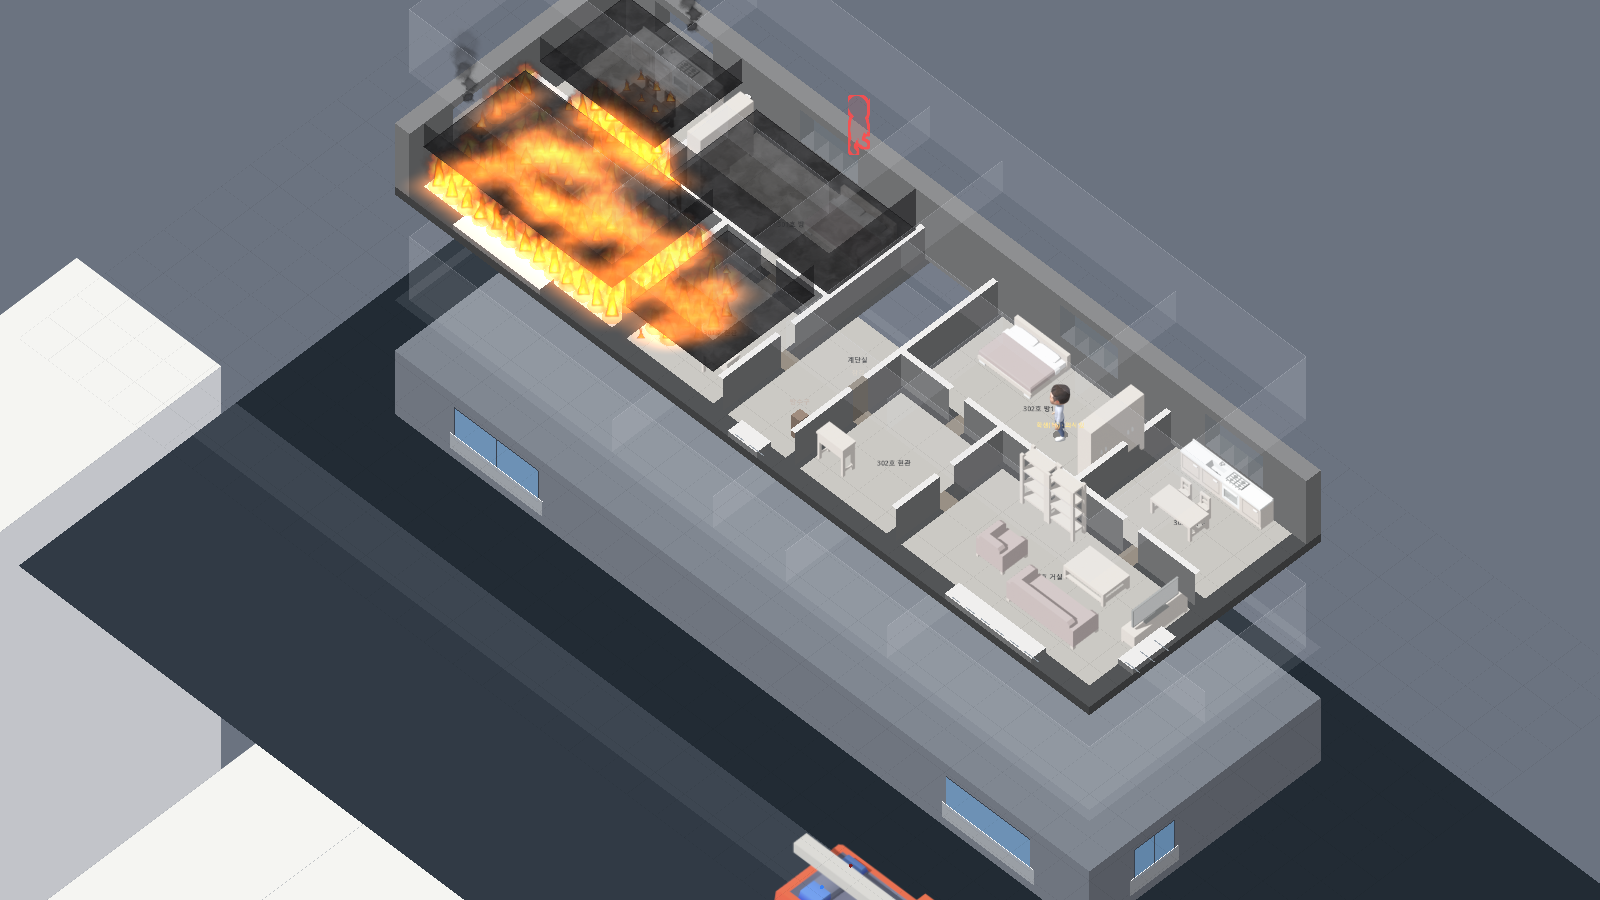
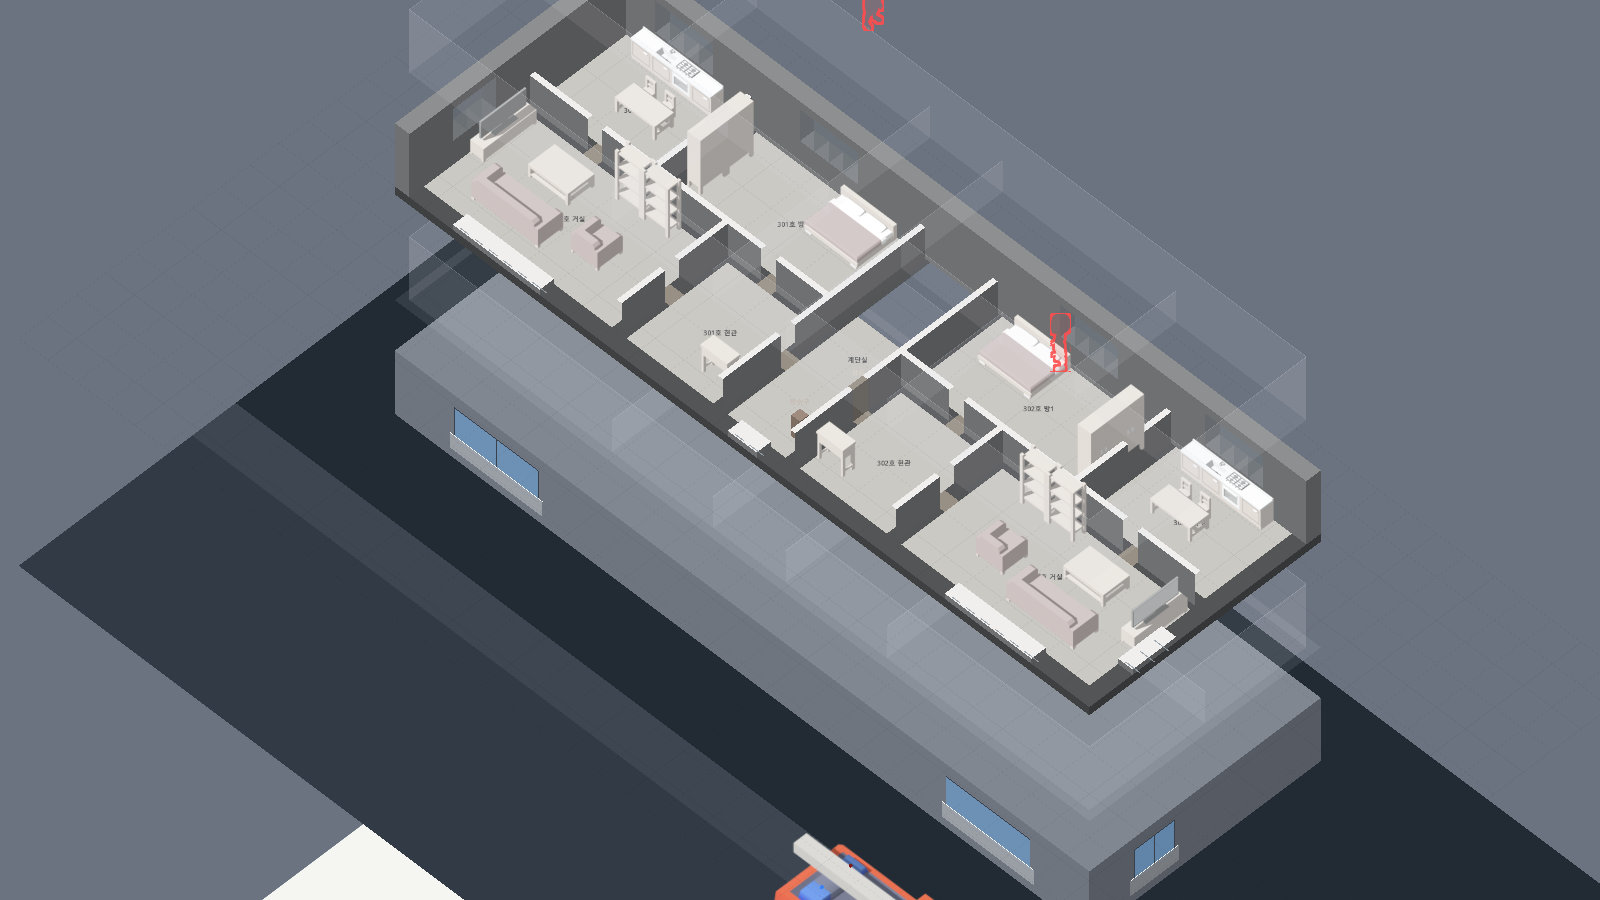
F01·F03: 층 위치 B(뒤로 0.3·위로 260px), 연기층을 Kenney 연기 덩어리 구름으로(윗면 옅게·앞면 진하게·높이 눈금)

diff --git a/docs/progress.md b/docs/progress.md
@@ -29,3 +29,4 @@
 | 2026-11-11 | P15-2 대체: 대원 3D 모델 직접 제작(firefighter_v2) | tools/blender/firefighter_v2.py(새 — 뼈대·방화복·반사띠·면체·공기호흡기·헬멧 모델과 7동작 자세), tools/blender/bake.py(bake_built_character)·bake_config.json(firefighter_v2), art/sprites/characters_firefighter_v2*(새), data/art.json(crew·commander → v2, 되돌리기 한 줄), data/credits.json, scripts/ui/building/floor_layer(이름표 높이), .gitignore(art_source/models) | TRELLIS·Mixamo 없이 Blender 스크립트로 만든 사람 비율 모델(단단한 조각+관절). 사진 같은 질감·손가락은 없음. Blender MCP 서버 설치(사용자 설정) — 다음 세션부터 Blender를 직접 조작해 다듬을 수 있음 |
 | 2026-11-11 | P4-5 진입구·층·계단 고르기 조작 | scripts/simulation/grid/stair_cores.gd(새)·pathfinder(밖으로 둘러 가는 길), scripts/units/unit_system(via·outdoor), scripts/command/command_system(진입구로 가기·층 목표·계단 묻기·동시 진입)·command_order(approach·floor·stair·entry_all)·move_command(via)·tactical_command, scripts/ui/selection_controller(안내 흐름·노란 표시·땅 우클릭=지휘관)·mission_ui(원형 메뉴 → 대상 목록)·card_ui(동시 진입)·building/floor_layer(층 테두리)·iso_view·world, data/command/radio_params(stair_answer_wait_s), tests(test_floor_flow 새, ui_smoke·ui_command_card 고침, _shot_guide·_shot_stairs 새), docs/test_guides/P4-5 | 전체 테스트는 사용자 지시 때. 계단 둘인 건물은 지하 노래방뿐. 사다리 창 진입구 없음 |
 | 2026-11-11 | 즉시 지시 (P10-3) | scripts/command/radio(instant_orders·send_ack)·organization(즉시·통솔범위 끄기)·command_system(set_order_mode·지연 이유 알림·진입 요청 즉시), scripts/simulation/sim_world(난이도별), scripts/evaluation/sim_event_log, data/command/radio_params(instant_char_scale), tests(test_instant_orders 새, ui_smoke 무전 확인) | 기획안 9-1 '교신 2~3초 뒤 움직임'은 악조건에만 남음 |
+| 2026-11-12 | F01 층 위치 B · 연기층 그림 1단계 | data/ui/view_params(stagger B, smoke_*), scripts/ui/building/view_params·floor_layer(_draw_smoke_cloud·_draw_smoke_gauge·_people_in)·fx_art(draw_puff_rect), scripts/simulation/crew_condition_system(eye_standing_m), tests(test_cutaway 값·눈높이, _shot_house 새) | 연기 2단계(쌓이는 움직임) 남음 |

diff --git a/docs/decisions.md b/docs/decisions.md
@@ -103,3 +103,5 @@
 | 2026-11-12 | F01 | 짝 층·앞벽 자리·실내 벽 두께 | 비켜 놓은 짝 층 25% + 층 이름표(지금 층 표시), 없앤 앞벽 자리는 바닥선 실선·꼭대기와 모서리 반투명 점선, 실내 벽·실내 문 두께 = 칸의 0.34(바깥벽의 1/3), 이음새 끝면 생략, 벽 칸 바닥은 보통 바닥색 | 사용자 결정 |
 | 2026-11-12 | F01 | 짝 층 흑백·모서리 기둥 | 짝 층 50% + 흑백(셰이더), 그 층의 불·연기·사람은 위에 원래 색으로 따로 그림(PartnerLive). 없앤 앞벽은 건물 바깥 모서리에만 굵은 세로 점선 기둥(80%), 벽 중간 세로선 없앰 | 사용자 결정 (가) — 흑백은 '작업하지 않는 층' 표준 표시, 불·대원은 놓치면 안 되는 정보 |
 | 2026-11-12 | F01 | 정적인 것은 무채색, 움직이는 것만 색 | 지금 층도 두 겹: 바탕(바닥·벽·가구·문)은 색 85% 빼기, 그 위 색 겹(CurrentLive)에 대원·요구조자·지휘관·차량·불·연기·수관·구역·경로를 원래 색으로. 짝 층은 반투명 없이 흑백 + 밝기 72%. 겹치는 곳은 대원·요구조자·불난 방 둘레만 위층을 비침 | 사용자 결정 — 지금 층에서 불·대원이 배경 색에 묻히던 문제. 프로스트펑크·디비전 전술지도처럼 배경은 무채색, 행동 요소만 색 |
+| 2026-11-12 | F01 | 2층 이상 층 위치 | B: 위층을 뒤로 0.3(건물 깊이 비율) + 위로 260px (예전 0.67·143px) | 사용자 결정 — 앞뒤로만 어긋나 '뒤 건물'처럼 보이던 문제. A(수직 330px)보다 덜 가림 |
+| 2026-11-12 | F03 연기층 그림 1단계 | 각진 반투명 판 + 테두리 → Kenney 연기 덩어리 구름층(아랫면 = 중성대, 천천히 출렁임), 방 안쪽은 옅게·잘린 앞면은 진하게, 짙으면 검은·옅으면 회색 연기, 방 앞 모서리 높이 눈금(연기 두께 막대 + 대원 눈높이 1.6m, 그 아래로 내려오면 주황, 사람 있는 방엔 '자세 낮춤') | 사용자 결정 — 판이 검은 상자·천장판으로 읽혀 화면이 혼란. 2단계(솟는 기둥→퍼짐→하강→문 넘침)는 다음 |
